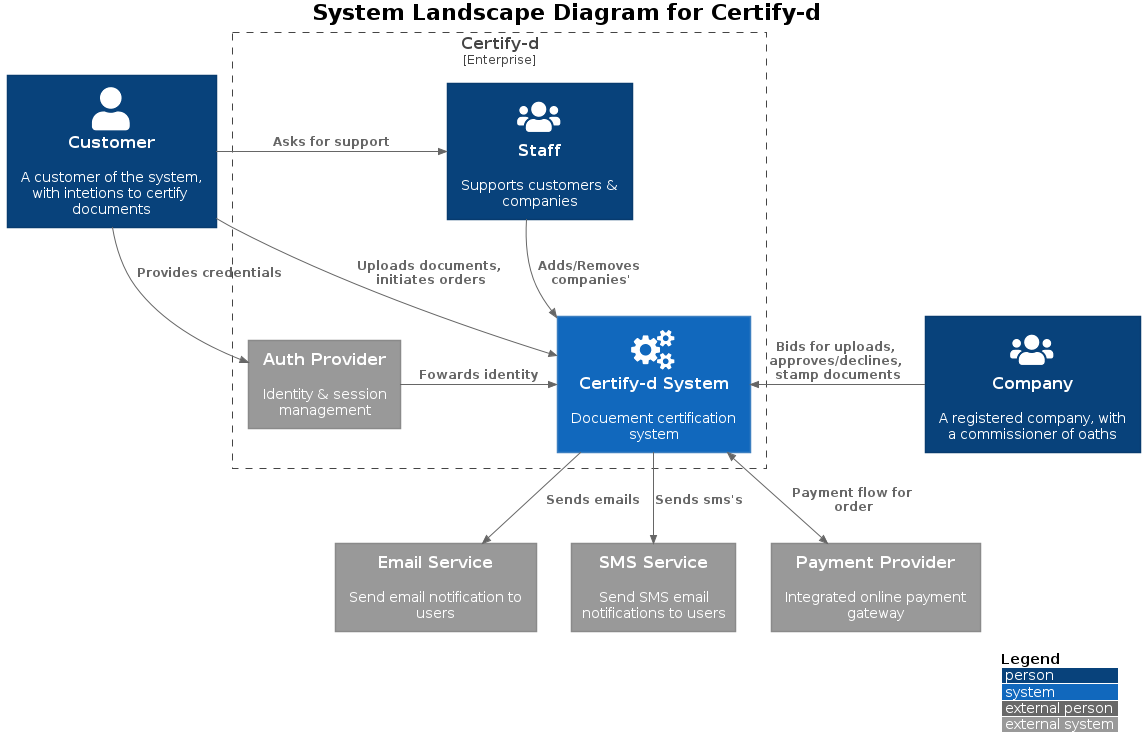
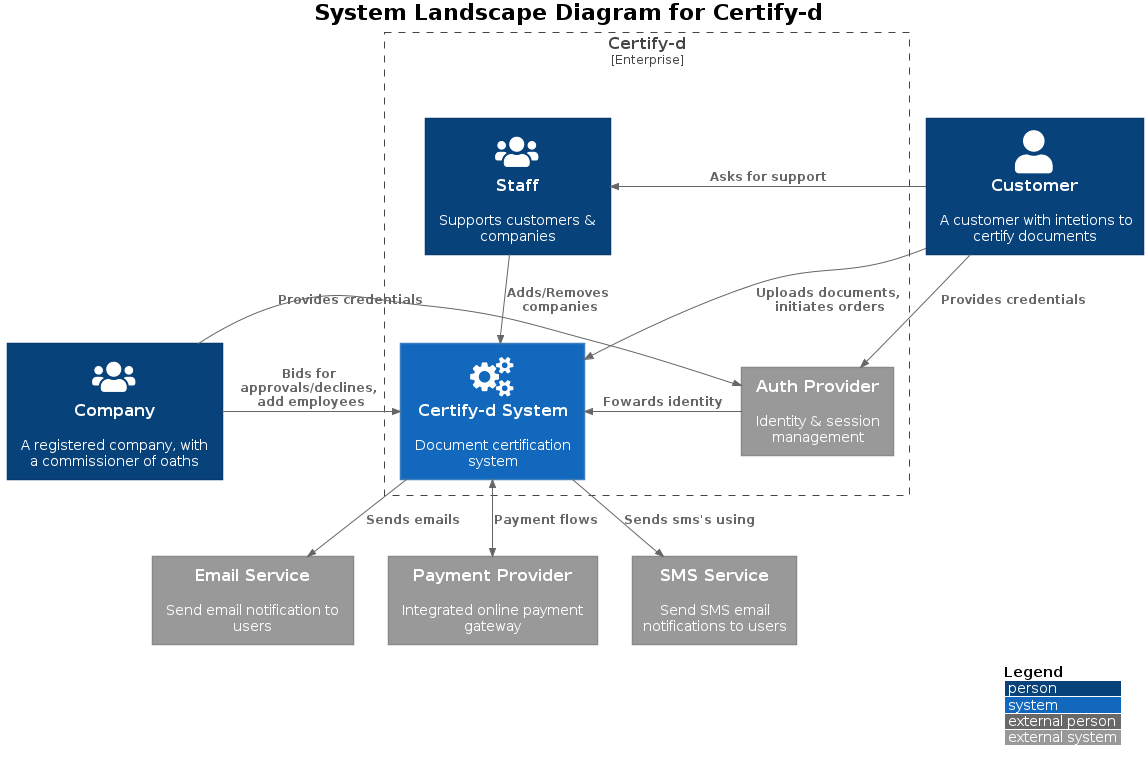
docs: update c4 digram & Architecture.md

diff --git a/docs/Architecture.md b/docs/Architecture.md
@@ -5,4 +5,4 @@ The architectural overview of this project makes use of the [C4 Model](https://c
 ## Level 1: System Context Diagram
 This level details a high  overview of the system, persons/actors, and software system at play. 
 
-![asdasd](diagrams/out/c4_l1_context.png)
+![image](diagrams/out/c4_l1_context.png)
